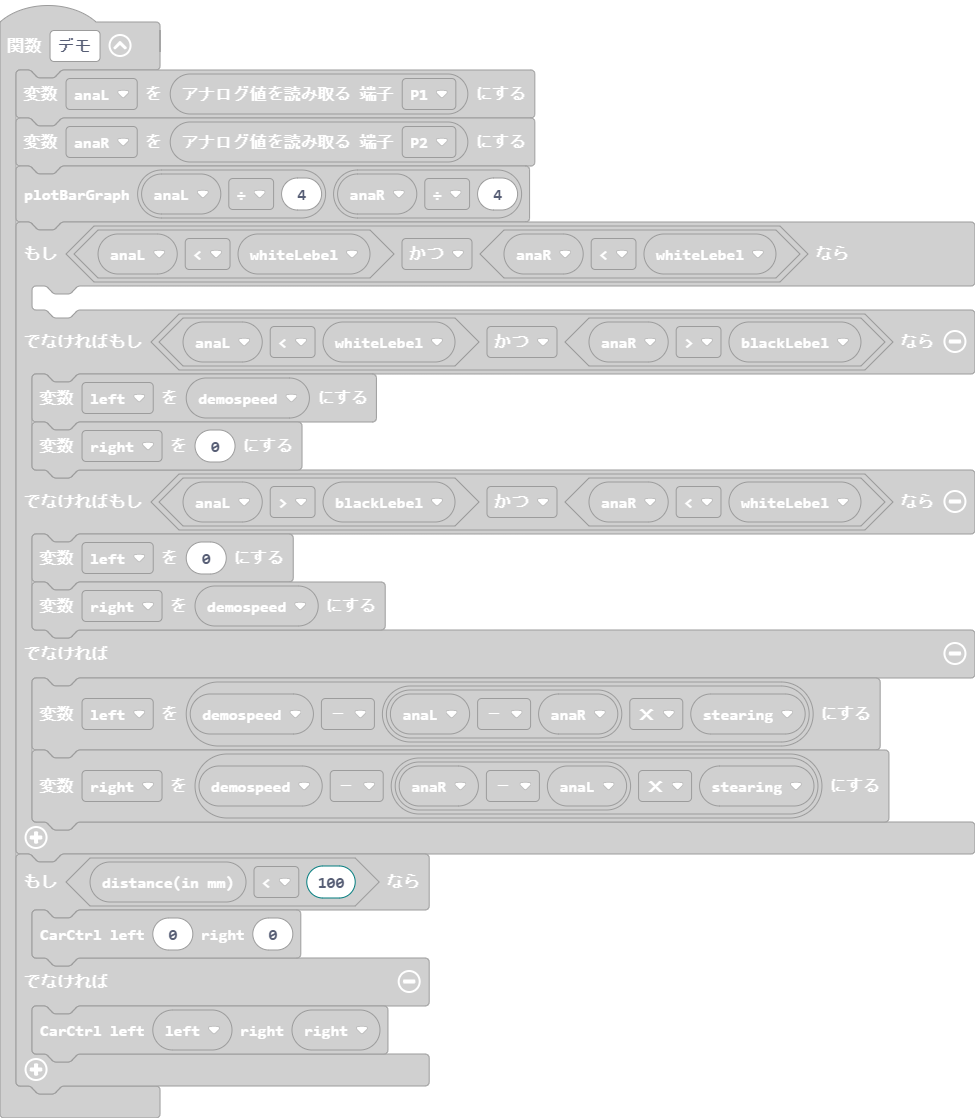
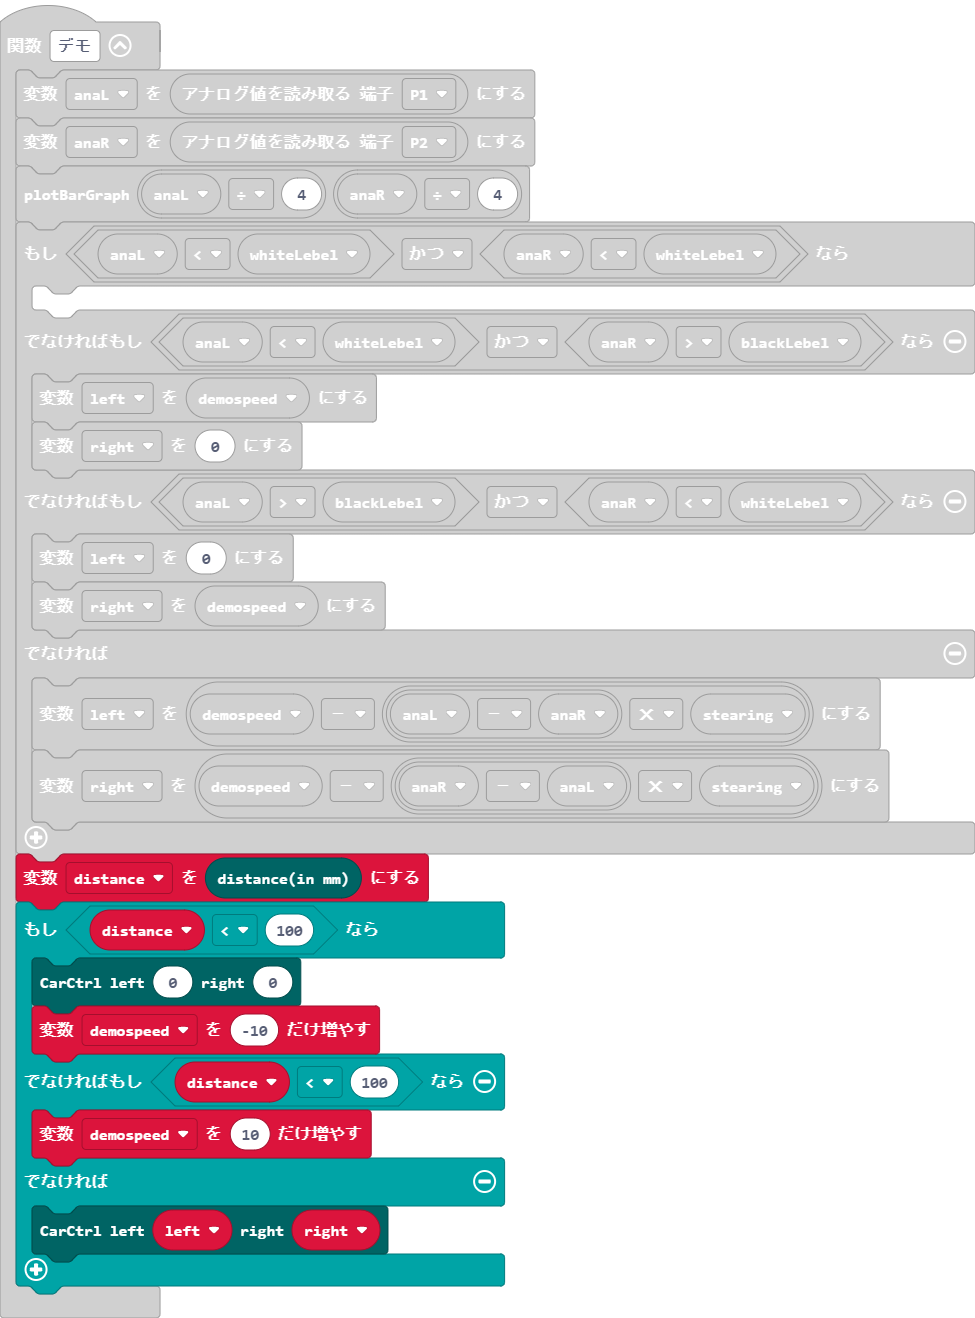
更新 main.blocks, main.ts

diff --git a/main.ts b/main.ts
@@ -14,8 +14,12 @@ function デモ () {
         left = demospeed - (anaL - anaR) * stearing
         right = demospeed - (anaR - anaL) * stearing
     }
-    if (porocar.getDistance() < 100) {
+    distance = porocar.getDistance()
+    if (distance < 100) {
         porocar.carCtrl(0, 0)
+        demospeed += -10
+    } else if (distance < 100) {
+        demospeed += 10
     } else {
         porocar.carCtrl(left, right)
     }
@@ -50,6 +54,7 @@ input.onButtonPressed(Button.B, function () {
 })
 let y = 0
 let x = 0
+let distance = 0
 let right = 0
 let left = 0
 let anaR = 0
